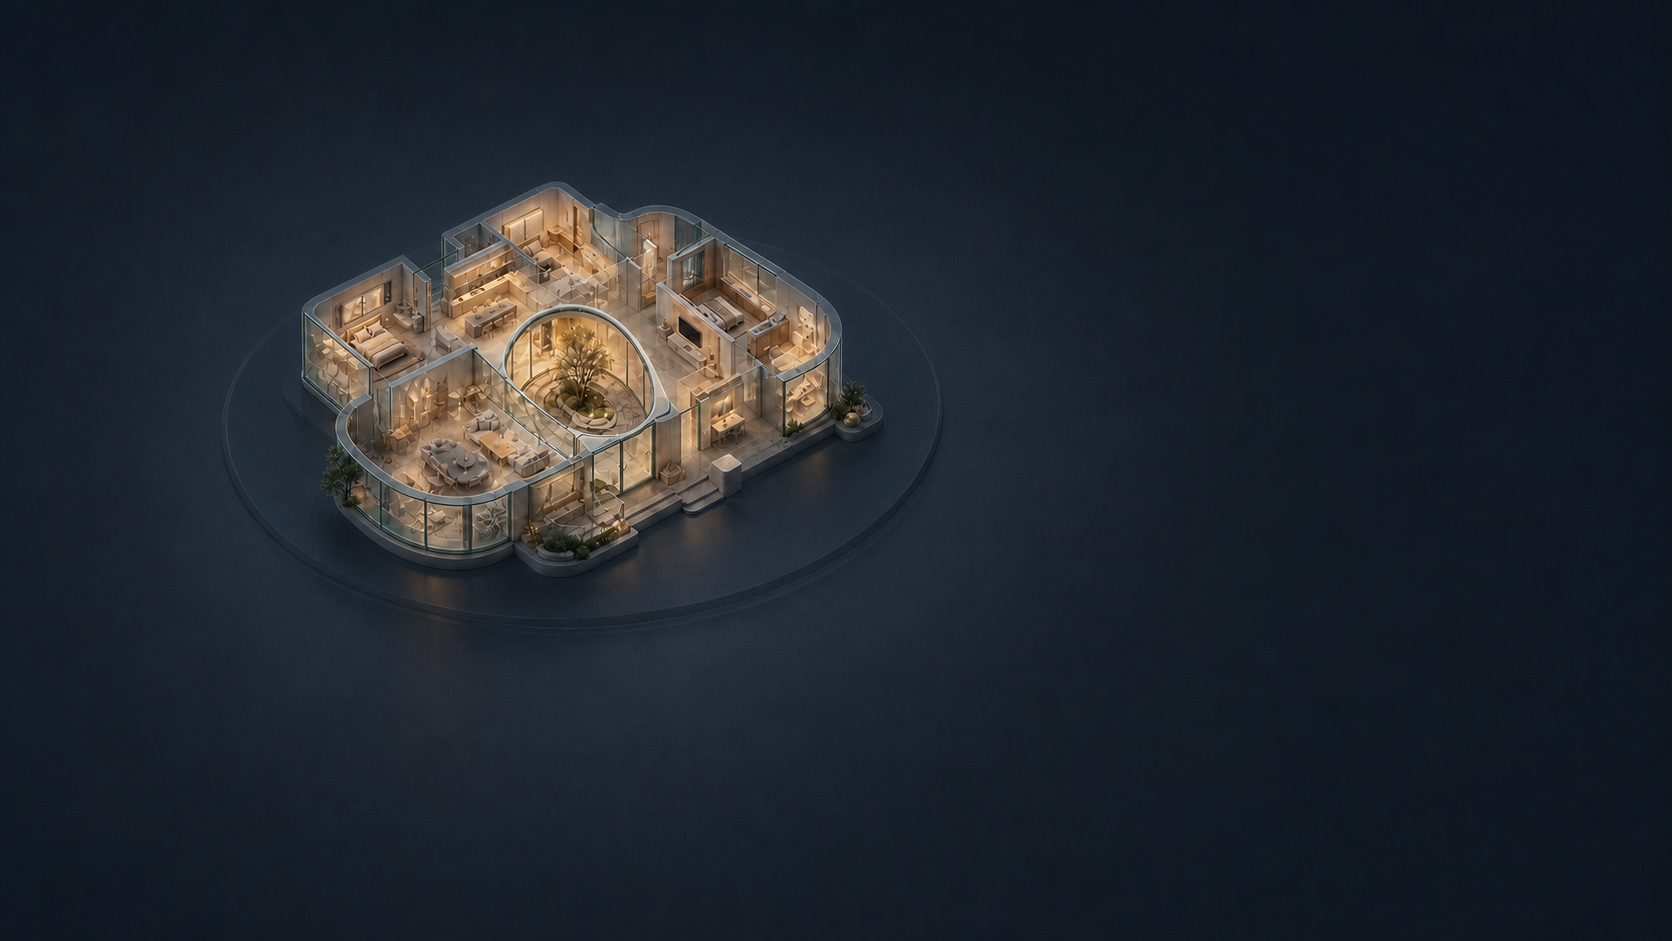
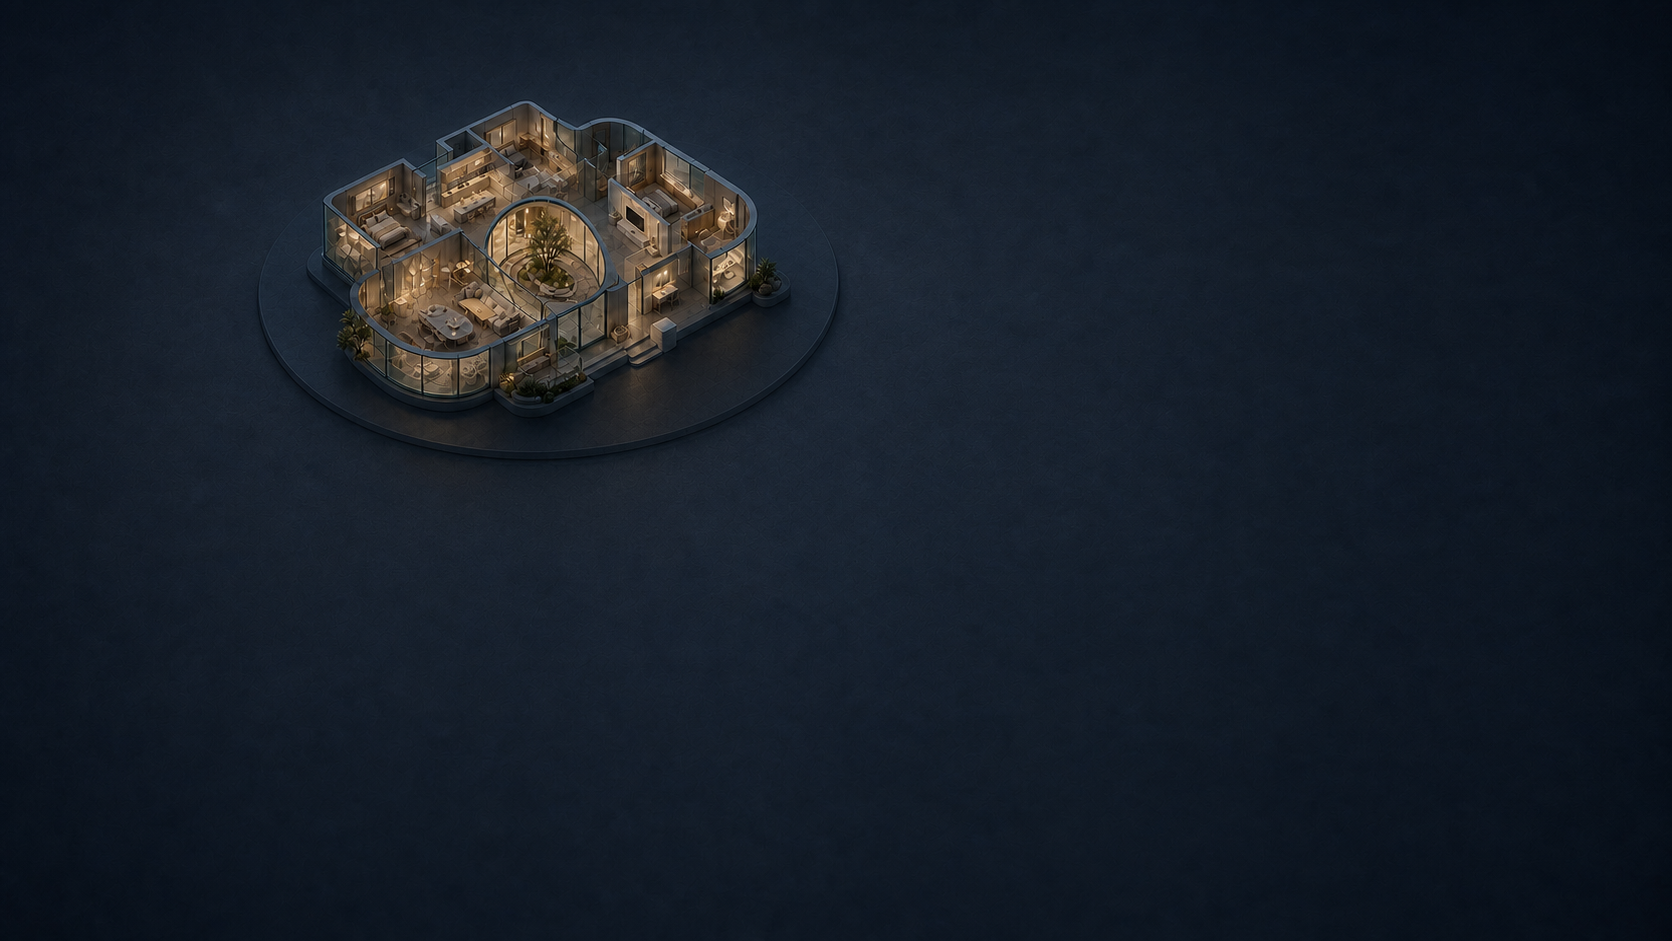
fix(skin): keep courtyard above dashboard cards

Changed region(s): [[0.1555, 0.0925, 0.5287, 0.6472]]

diff --git a/skins-pro/aurelia-courtyard/theme.css b/skins-pro/aurelia-courtyard/theme.css
@@ -2908,8 +2908,8 @@ ha-control-slider {
 
 @media (orientation: portrait), (max-width: 760px) {
   .stage {
-    background-size: cover, auto 520px;
-    background-position: center, 30% top;
+    background-size: cover, auto 460px;
+    background-position: center, 30% -24px;
     background-repeat: no-repeat, no-repeat;
   }
 
